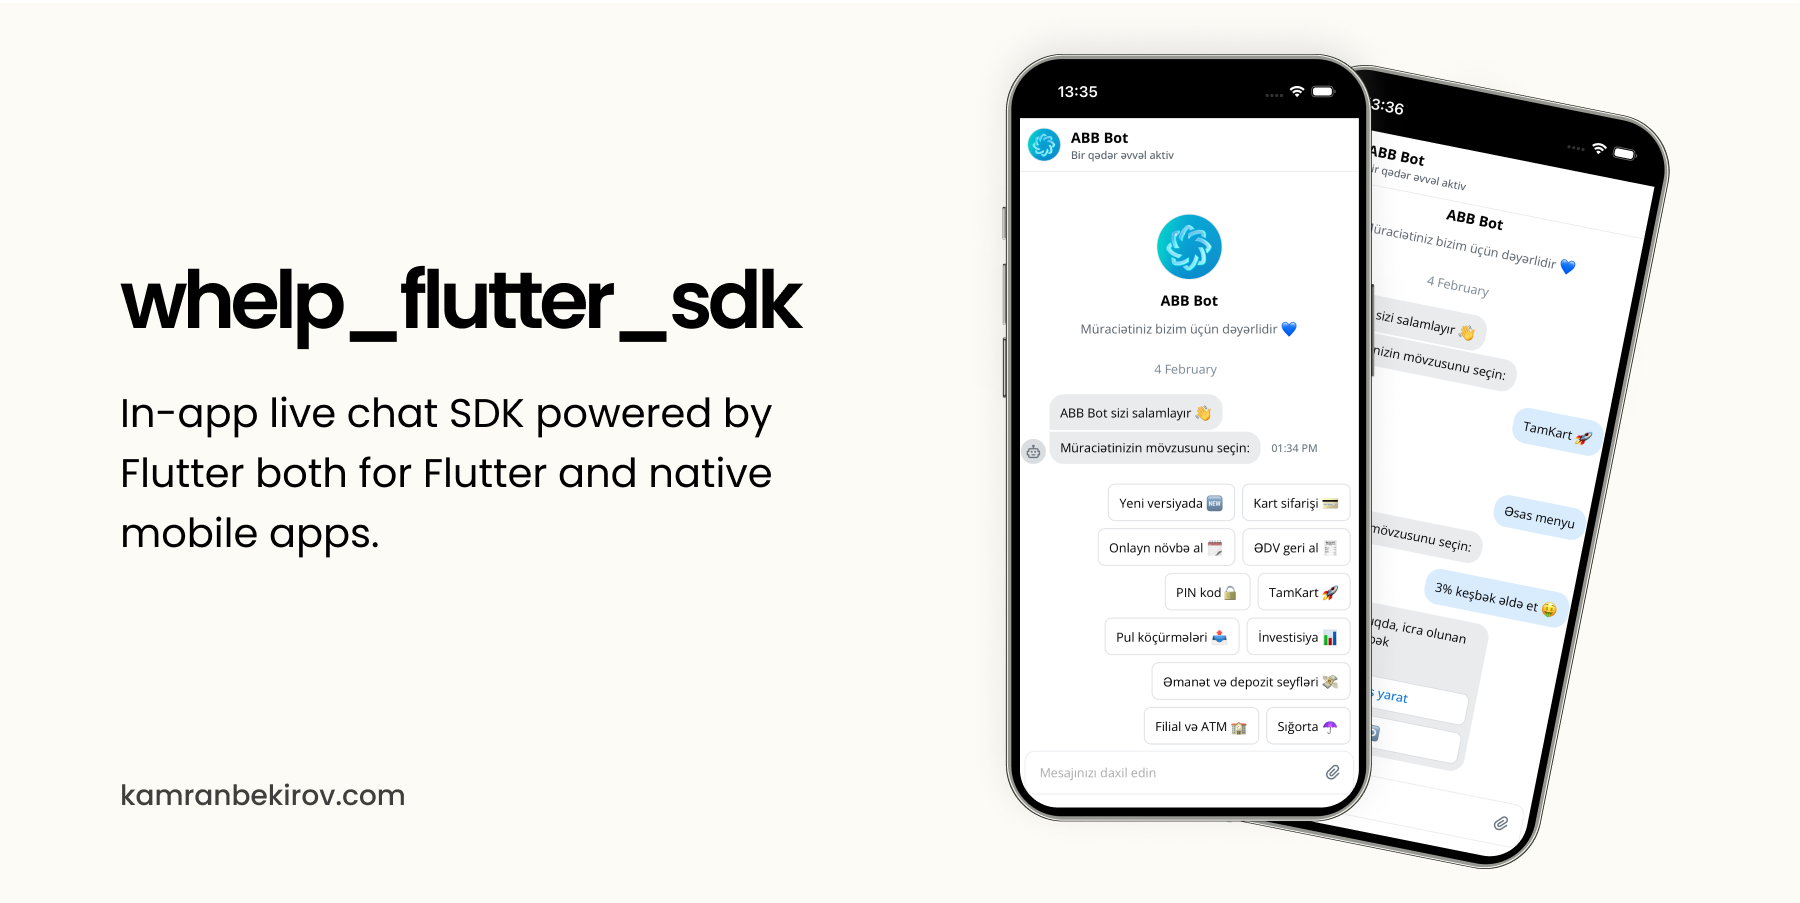
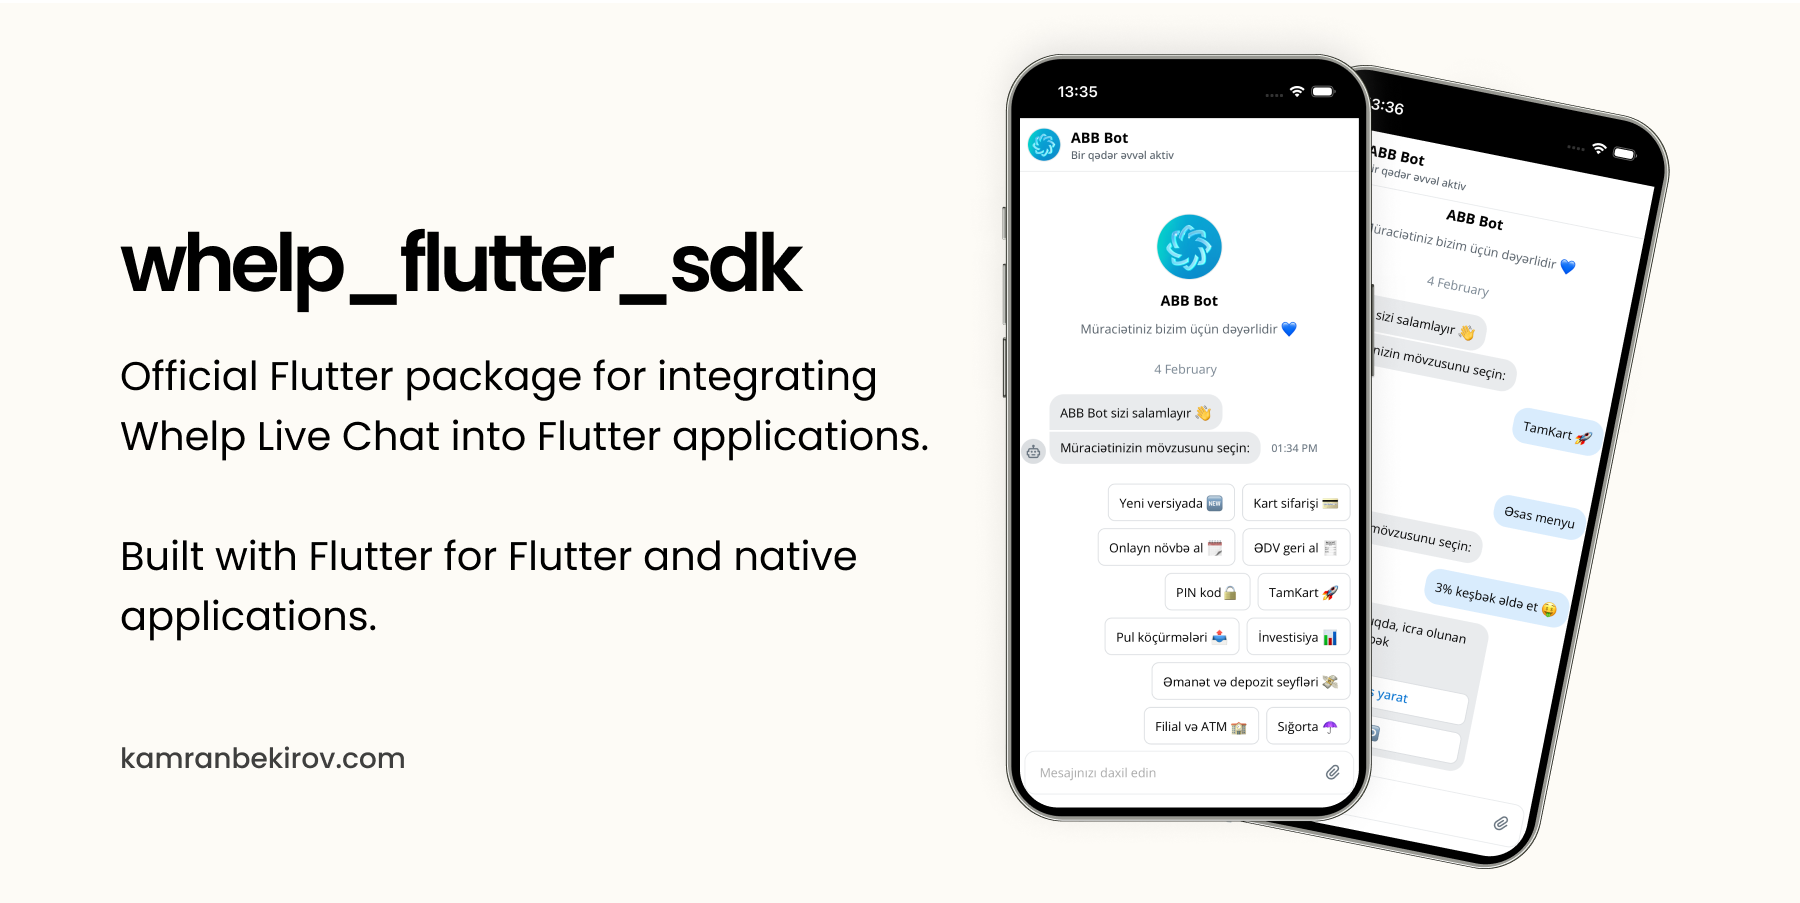
Update README.md with new package name and add license link

Changed region(s): [[0.0622, 0.2481, 0.5289, 0.7132], [0.0622, 0.8062, 0.2178, 0.8992]]

diff --git a/README.md b/README.md
@@ -1,10 +1,11 @@
-# Whelp Live Chat for Flutter
+# whelp_flutter_sdk
 
-[![Pub Version](https://img.shields.io/pub/v/whelp_flutter_sdk)](https://pub.dev/packages/whelp_flutter_sdk)
-
-Whelp Flutter Live Chat Package is a Flutter library that allows you to integrate a live chat feature into your Flutter applications using the Whelp service.
+Official Flutter package for integrating the Whelp Live Chat feature into Flutter applications. 
 
 For native Android and iOS applications, please refer to the <a href="https://github.com/Whelp-Inc/whelp-flutter-sdk/blob/main/doc/native_android.md" target="_blank">Android</a> and <a href="https://github.com/Whelp-Inc/whelp-flutter-sdk/blob/main/doc/native_ios.md">iOS</a> documentation.
+
+
+<img src="https://github.com/Whelp-Inc/whelp-flutter-sdk/blob/main/doc/cover.png?raw=true">
 
 ## ⚠ Note
 

diff --git a/doc/native_ios.md b/doc/native_ios.md
@@ -328,7 +328,4 @@ class FlutterManager: ObservableObject {
 ```
 
 ## 📄 License
-This package is open-source and released under the MIT License.
-
-## 🙏 Contributing
-Please report any issues or feature requests on the <a href="https://github.com/Whelp-Inc/whelp-flutter-sdk" target="_blank">GitHub repository</a>. Contributions are welcome.
+This package is open-source and released under the <a href="https://github.com/Whelp-Inc/whelp-flutter-sdk/blob/main/LICENSE" target="_blank">MIT License</a>.
